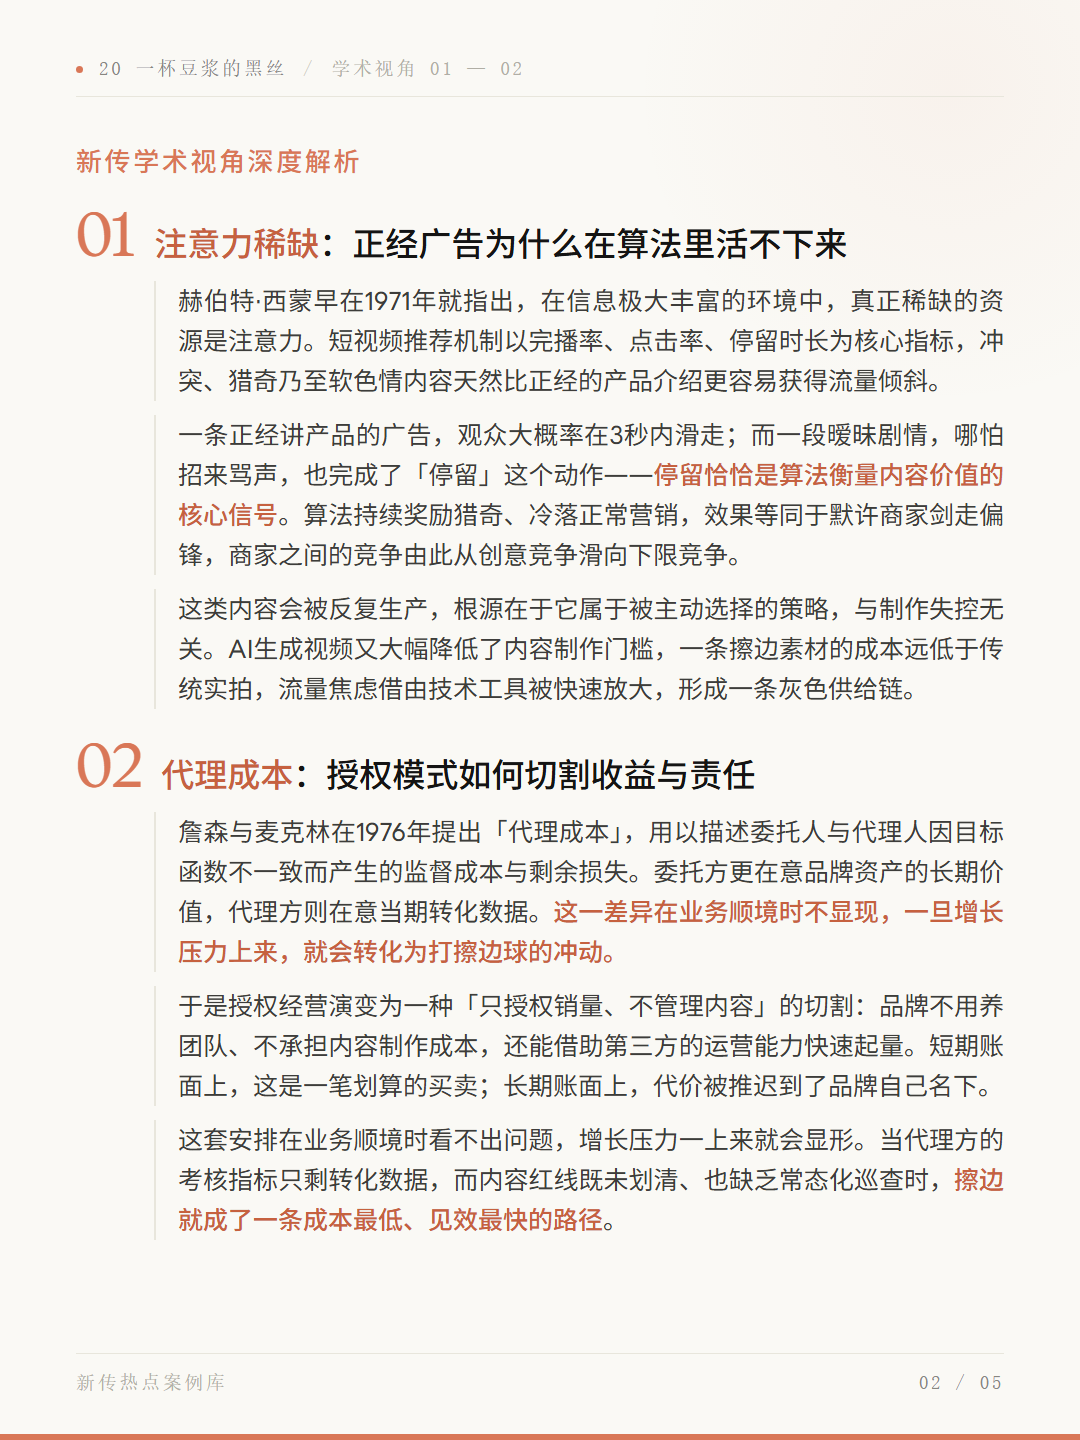
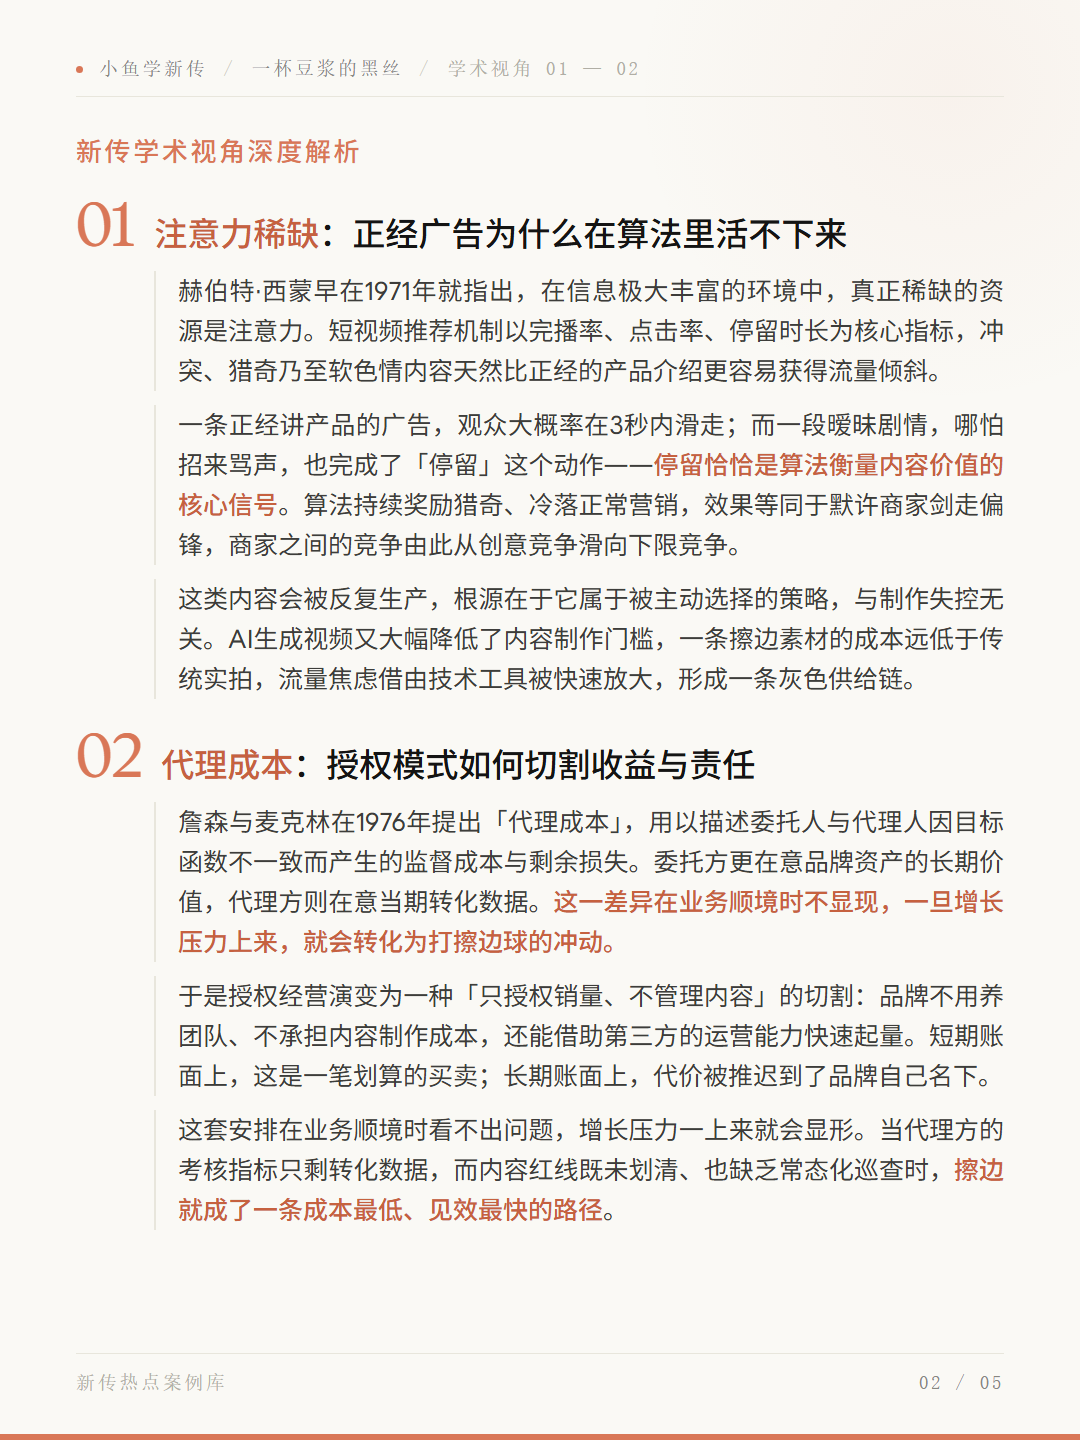
style(热点解读): 20 Anthropic 版封面改版 —— 去期号、加栏目大标题、统一署名
① 封面删除期号 20；② 新增栏目大标题「九月新传热点案例分析」+ 导语
「事件回顾 · 关键词 · 学术视角」；③ 全 5 张左上角署名统一为「小鱼学新传」
（原「小黄 / 新传热点案例 20 · 2026.09」）。
事件标题 76→56px、副标题 34→29px，为新增的大标题腾出空间。
shoot.js 增加 hintGap 判据：本版式 .hint 的 margin-top:auto 会掩盖溢出，
原 contentBottom 恒为 1333 无法检测。
五页底边 1333/1230/1256/1265/1335，footTop 1353，无溢出。

Changed region(s): [[0.0611, 0.0938, 0.9472, 0.875], [0.0917, 0.0312, 0.4889, 0.0625]]

diff --git a/kb/wiki/log.md b/kb/wiki/log.md
@@ -364,3 +364,15 @@
 **归档**：5 张按仓库既有命名规则存入 `kb/新传热点事件解读/images/`，文件名加 `-anthropic` 后缀；笔记 frontmatter `images` 由 5 改为 10，`## 配图说明` 拆为两套版式分述并附实测参数表；README 版式段与目录表同步；index 条目补注。
 
 **沉淀**：抓取方法与「参考站点覆盖默认色板」的优先规则已写入用户级 skill `minimalist-ui`（新增 §3.0 CJK Fallback、§4.1 Reference Override Rule，禁则补一条「不得混用两套相近暖中性色」），下次换参考站点可复用同一套流程。
+
+## [2026-09-24] revise | 热点解读 20 Anthropic 版封面改版与署名统一
+
+按用户要求对 Anthropic 风格版做三处修改：① 封面去掉期号 `20`（原 `<span class="num">20</span>` 与刊头后缀一并删除）；② 封面上方新增栏目大标题「九月新传热点案例分析」（衬线 62px）与一行导语「事件回顾 · 关键词 · 学术视角」；③ 全套 5 张左上角署名由「小黄 / 新传热点案例 20 · 2026.09」改为「小鱼学新传」。
+
+**署名实现**：第 1 页刊头 `.masthead` 改为 flex 两端对齐——左侧「小鱼学新传」、右侧日期 `2026.09`；第 2—5 页顶部导航条 `.mini-bar` 由「20 一杯豆浆的黑丝 / 分区名」改为「小鱼学新传 / 一杯豆浆的黑丝 / 分区名」。如此全 5 张左上角统一为品牌名，期号不再出现在画面上任何位置。
+
+**为腾出大标题空间做的压缩**（均在 style.css 内，绿版不受影响）：新增 `.page-title`（62px 衬线）、`.page-sub`（22px）；事件标题 76px→56px、副标题 34px→29px，`.pill` / `.chips` / `.title-underline` / `.sec-title` 上边距各减 4—10px。
+
+**踩到一个诊断盲区**：本版式 `.hint` 带 `margin-top:auto`，会吸掉溢出量，导致 `contentBottom` 恒等于 `footTop − 20 = 1333`，内容增加也毫无变化——**只看该指标会完全漏检溢出**。已在 `shoot.js` 增加 `hintGap`（= hint.top − 前一元素 bottom，落到 0 才是真挤满）与 `miniBarW`（> 928 即导航条折行）两个判据。改版后 p1 `hintGap` 49px，五页底边 1333 / 1230 / 1256 / 1265 / 1335，footTop 1353，全部安全。
+
+**归档**：5 张覆盖 `kb/新传热点事件解读/images/20-永和豆浆擦边-anthropic-0X.png`，桌面副本 `20_永和豆浆_Anthropic版图卡\` 同步覆盖，三处 md5 逐张一致。笔记「配图说明」补署名与期号说明段。
